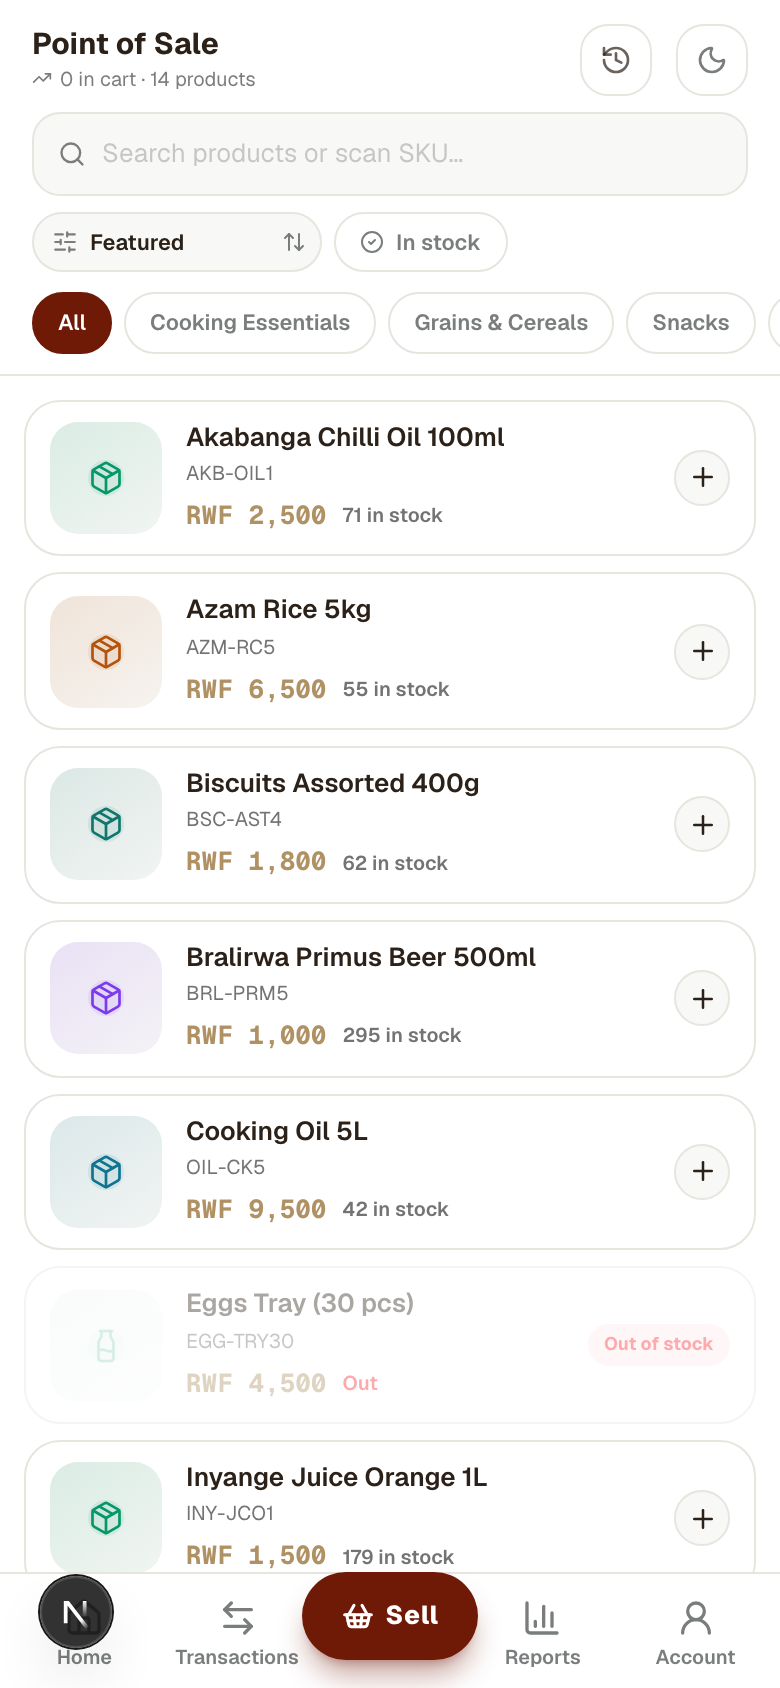
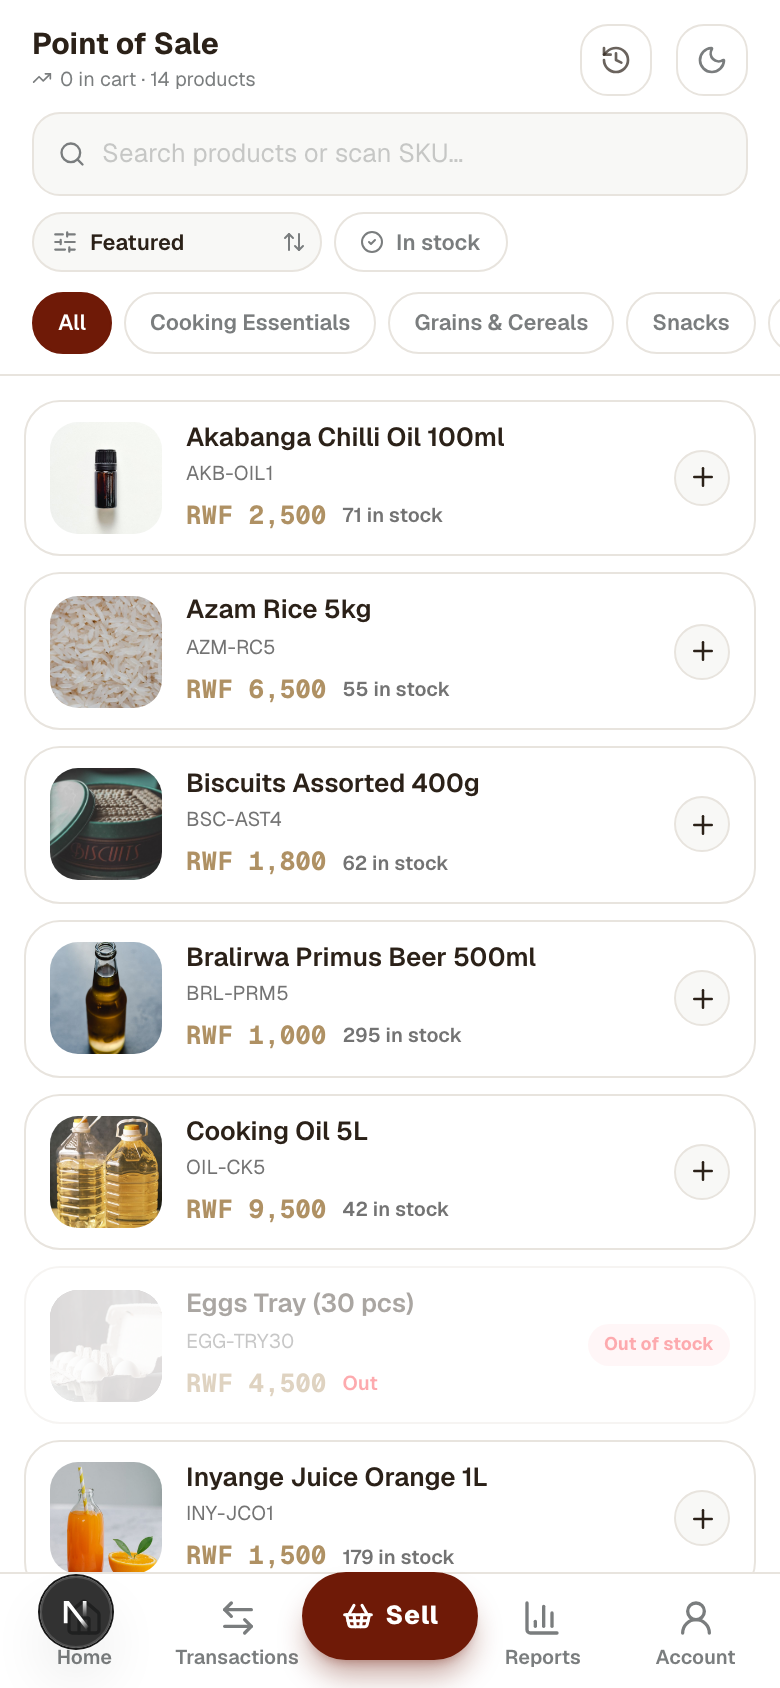
fix(marketing): refresh screenshots with real product photos, add second tenant
The marketing page's screenshots were captured before product photo
uploads existed, so they still showed generic icon placeholders even
after the resolveUploadUrl fix landed. Retake the FreshMart shots
(hero dashboard, POS terminal, mobile home/POS) now that its 14
products have real photos.

Also swap the Inventory spotlight to a second demo tenant (an
electronics shop) instead of reusing FreshMart everywhere, so the
page shows the platform working for more than one kind of business.

Fixes the same missing-image bug in the Inventory Overview page
(frontend/src/app/(erp)/inventory/page.tsx) that was already fixed
elsewhere: it rendered <ProductAvatar> without ever passing it the
product's image_url, so this specific list always fell back to
colored initials regardless of whether a photo existed.

Changed region(s): [[0.0615, 0.5545, 0.2154, 0.8318], [0.0615, 0.2464, 0.2154, 0.5237], [0.0615, 0.8626, 0.2154, 0.955]]

diff --git a/frontend/src/app/(erp)/inventory/page.tsx b/frontend/src/app/(erp)/inventory/page.tsx
@@ -57,6 +57,7 @@ function toRow(p: ApiProduct) {
     value: variantValue(p),
     hasVariants: p.has_variants && (p.variants?.length ?? 0) > 0,
     variantCount: p.variants?.length ?? 0,
+    imageUrl: p.image_url,
   };
 }
 
@@ -293,7 +294,7 @@ export default function InventoryOverviewPage() {
                   <tr key={item.id} className="hover:bg-surface/40 transition-colors group">
                     <td className="px-5 py-3.5">
                       <div className="flex items-center gap-3">
-                        <ProductAvatar name={item.name} size={32} />
+                        <ProductAvatar name={item.name} imageUrl={item.imageUrl} size={32} className="rounded-lg" />
                         <div>
                           <span className="text-sm font-medium text-foreground">{item.name}</span>
                           {item.hasVariants && (

diff --git a/frontend/src/app/page.tsx b/frontend/src/app/page.tsx
@@ -493,8 +493,8 @@ const showcase: {
     description:
       "Track stock across every warehouse in real time, with low-stock alerts and purchase orders that keep you ahead of demand instead of reacting to it.",
     points: ["Multi-warehouse tracking", "Low-stock alerts", "Purchase orders & transfers"],
-    screenshot: "/screenshots/inventory.png",
-    screenshotAlt: "OneGemmy inventory overview showing stock health, top products by value, and low-stock alerts",
+    screenshot: "/screenshots/inventory-electronics.png",
+    screenshotAlt: "OneGemmy inventory overview for an electronics shop, showing stock health, top products by value, and real product photos",
     path: "inventory",
   },
   {
